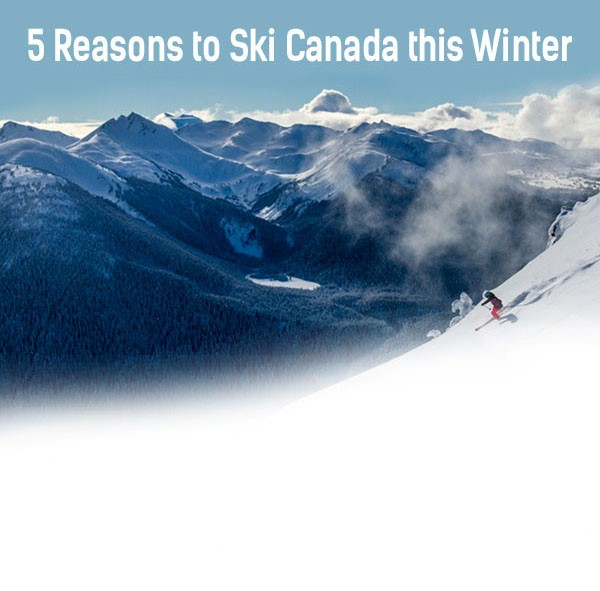
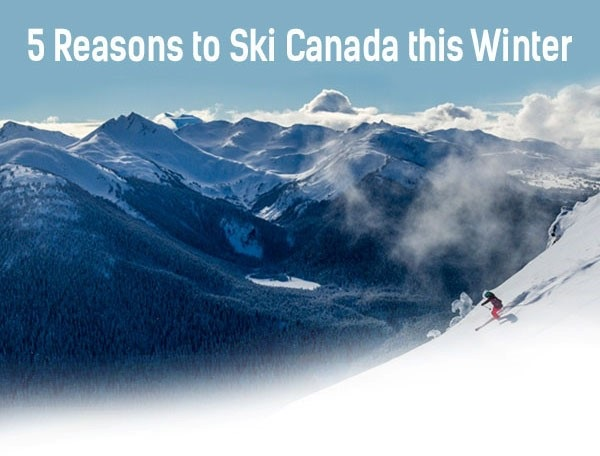
Add files via upload

diff --git a/index.html b/index.html
@@ -9,57 +9,84 @@
 			font-family: "kelson";
 			src: url("font/Kelson_Sans_Regular.otf");
 		}
+
+		* {
+			margin: 0;
+			padding: 0;
+		}
+
 		body {
 			background-color: #ffffff;
-			background-image: url("img/header.jpg");
-			background-repeat: no-repeat;
-			width: 600px;
-			height: auto;
-			padding: 10px;
 			font-family: "kelson", "Roboto", Arial, sans-serif;
 			font-size: 100%;
-		} 
+		}
+
 		h1 {
-			padding-bottom: 10px;
+			padding-bottom: 15px;
 			text-align: center;
 			text-decoration: underline;
-
+			width: 100%;
 		}
+
 		h2 {
-			font-size: 1.1em;
-			width: 550px;
-			margin: auto;
+			font-size: 1.3em;
+			margin: 12px;
 			line-height: 1.4em;
-
 		}
+
 		h3 {
-			padding-top: 10px;
+			padding: 15px 0;
 			font-size: 1.1em;
 		}
+
 		p {
 			font-family: "Roboto", arial, sans-serif;
-			line-height: 1.4em;
 			font-size: 1.0em;
 			text-indent: 16px;
+			line-height: 1.4em;
+			padding-bottom: 5px;
 		}
+
 		a:link, a:visited, a:active {
 			color: #1AB7EA;
 			font-style: italic;
 			text-decoration: none;
 		}
+
 		a:hover {
 			text-decoration: underline;
 		}
-		#main {
-			position: absolute;
-			top: 440px;
-			width: 560px;
-			height: auto;		
+
+		#image {
+			max-width: 600px;
 		}
+
+		#text {
+			position: absolute;
+			max-width: 560px;
+			padding: 10px;		
+		}
+
+		@media only screen and (max-width: 500px) {
+			body { 
+					font-size: 90%;}
+			}
+		}
+
+
+/*		@media screen and (max-width: 375px) {
+		    #main {
+		    	top: 30%;
+		    }
+		} */
 	</style>
 </head>
 <body>
-	<div id="main">
+	<div id="image">
+		<img src="img/header.jpg" width="100%">
+	</div>
+
+	<div id="text">
 		<h1>5 Reasons to Ski Canada this Winter</h1>
 
 		<h2>Calling all skiers! Nowhere does winter, and skiing, better than the Great White North. Canada has a thriving ski culture that runs from November to April (and sometimes even May!). It goes without saying that the conditions and quality of the resorts are world class…. but beyond that, what makes Canada the perfect choice this winter?</h2>
